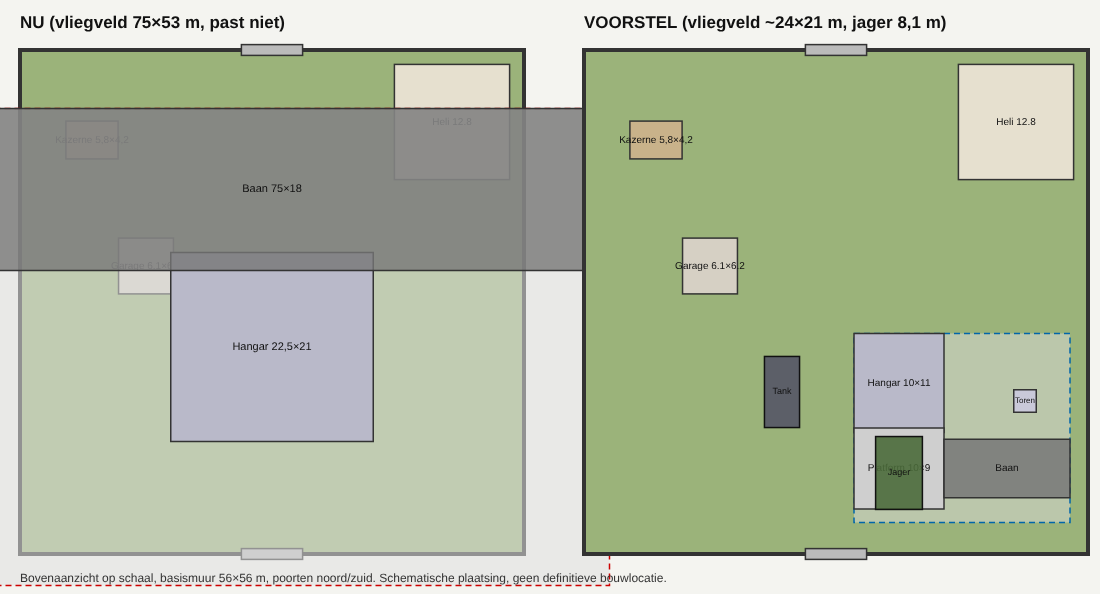
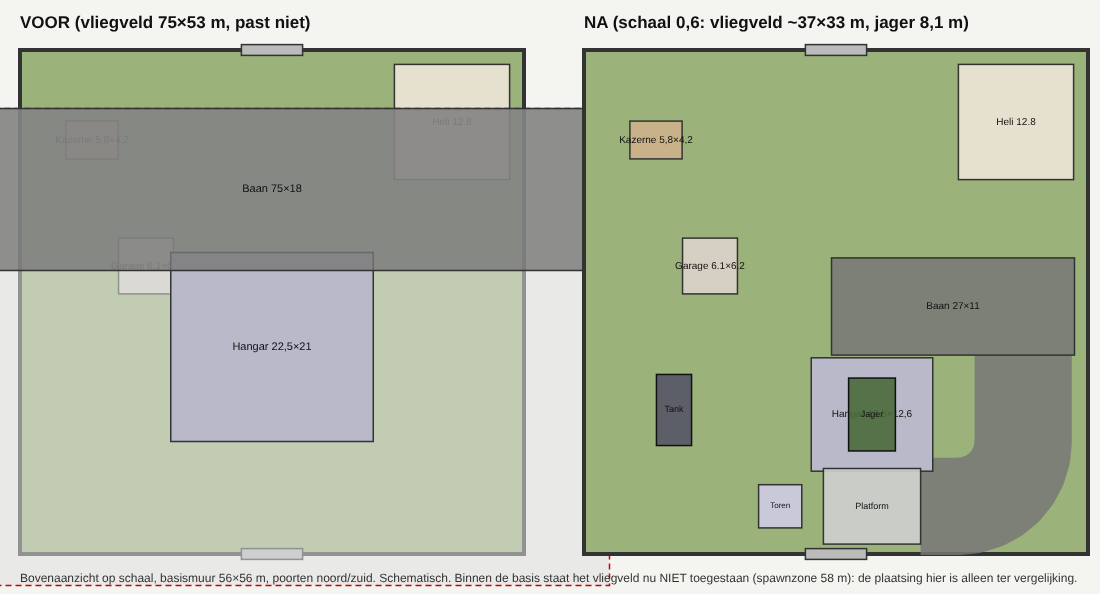
Vliegveld in Generals-verhoudingen: scène uniform op schaal 0,6, baan 3 dekplaten, jager 0,55
Dezelfde modellen, texturen en animaties, alleen kleiner. Wereldmaten, plaatsing en
vliegtuigcode rekenen met AirfieldHQ23.SCALE. Tests bijgewerkt, nieuwe schaaltest en
voor/na-opnames. Niet gemerged, geen OTA.

Claude-Session: https://claude.ai/code/session_01WCF4zvxLqN6y8NRWiuWgER

diff --git a/docs/airfield_generals_scale/REPORT.md b/docs/airfield_generals_scale/REPORT.md
@@ -1,0 +1,41 @@
+# Vliegveld in Generals-verhoudingen: rapport
+
+Branch `claude/airfield-generals-scale-spec`. Niet gemerged, geen OTA. Native iPhone-prestaties en -touchgedrag: **NIET GETEST**.
+Specificatie en onderbouwing: [ASSET_DESIGN_SPEC.md](ASSET_DESIGN_SPEC.md).
+
+## Wat is gedaan
+- De hele vliegveldscène is uniform met factor **0,6** verkleind (`AirfieldHQ23.SCALE`). Hangar, toren, platform, taxibaan en baan zijn **dezelfde modellen, texturen en animaties**; ze zijn niet opnieuw gemodelleerd. Kleiner betekent dus een hogere pixeldichtheid per meter.
+- De baan heeft drie in plaats van vijf dekplaten (45 m ontwerp, 27 m in de wereld).
+- Het toestel (straaljager) is van schaal 0,62 naar 0,55 gegaan: ~8,1 × 5,2 m, iets langer dan de tank (7,9 m) en veel groter dan de jeep.
+- Wereldmaten (plaatsing, voetafdruk, camerakadrering, bouwoppervlak) rekenen met `SCALE`. Binnen de scène blijven alle maten gelijk, zodat deuren, animaties, botsing en lichten niet verschuiven.
+- Vliegtuigcode: schaal-onafhankelijke parkeerpositie, hoogte van het asfalt (0,22 × 0,6), hangarpasvorm en een echte draai op de plaats binnen de hangar (anders zwaait de neus tegen de deurstijl).
+- Kazerne, garage, helipad, voertuigen, soldaten en hun uitgangen zijn niet aangeraakt.
+
+## Maten (gemeten in Godot)
+Hangar 13,5 × 12,6 m (opening 9 × 3,5), baan 27 × 10,8, platform 10,8 × 8,4, toren 4,8 × 4,8; het hele vliegveld past in 36,9 × 33,0 m (was 75 × 53). Voor/na met identieke camera: [voor](captures/voor/) en [na](captures/na/). Schema: [basis_oud_vs_nieuw.png](basis_oud_vs_nieuw.png).
+
+## Eisen van de gebruiker
+| Eis | Resultaat |
+|---|---|
+| Animaties blijven bestaan | Hangardeuren (alle 3 LODs, tween plus botsing), torendeur (botsing draait mee open), windzak-lus en de jager-clip `Vliegen` werken (tests hieronder). Geen enkele clip is aangepast. |
+| Zelfde ontwerp, hoge pixeldichtheid | Zelfde GLB's en texturen, uniform geschaald. Geen nieuwe bronbestanden, dus geen wijziging aan `.blend`/`.usdz`/viewer. |
+| Alles blijft werken | Zie de testtabel. |
+
+## Tests (headless Godot 4.7.2, Linux)
+| Test | Uitkomst |
+|---|---|
+| `airfield_hq_23_contract_test` | PASS (verwachtingen over baan 45 m, oppervlak 981,8 m² en schaal 0,6 bijgewerkt) |
+| `vliegtuig_test` | 0 fouten (opstijgen, vliegen, landen, taxiën, terug in de hangar, crash-tests) |
+| `airfield_hq_23_hangar_gameplay_test` | 0 fouten (muren, deuren, dak, op de geschaalde scène) |
+| `airfield_scale_test` (nieuw) | 0 fouten: wereldmaten, opening laat jager door, speler loopt door de open deur (ook 2,3 m naast het midden), trapbreedte, torendeur, windzak, 3 dekplaten |
+| `bouw_test`, `generator_test`, `heli_test`, `schade_test`, `truck_test`, `wachtpost_test`, `ai_test`, `raket_test`, `vq2_test` | geen fouten |
+| `airfield_hq_22_import_test` | **faalt, maar ook zonder mijn wijzigingen** (`The compact left-door GLB action must play in Godot`, headless) |
+
+Opnames in het echte spel (`tests/airfield_scale_capture.gd`, Mesa llvmpipe, OpenGL-compatibiliteit): modellen, texturen en hangar-interieur met het toestel zijn intact. Dit is geen prestatiemeting.
+
+## Open punten
+1. **Binnen de basismuren plaatsen kan nog niet.** Het spel weigert elke vliegveldlocatie binnen 60 m van het midden ("Vijandelijke spawnzone", `Data.SPAWN_R = 58`), dus ook binnen de basis (56 × 56 m). Het verkleinde vliegveld (37 × 33 m) past er qua afmeting wel, maar dan moet die regel veranderen en worden vijanden de gebouwen aanvallen. Beslissing van de gebruiker nodig.
+2. Het vliegveld is omvattend 37 × 33 m, groter dan de eerste inschatting van 24 × 21 m, omdat het ontwerp (taxibocht) dezelfde samenstelling houdt.
+3. De baan van 27 m is korter dan een echte baan; het vliegen is arcade en de test (opstijgen, landen) slaagt.
+4. Torentrap: de botsvormen zijn verbreed zodat de speler (0,9 m) past, maar klimmen is niet getest (was ook al niet geaccepteerd in 2.3).
+5. Native iPhone-test (framerate, aanraking, camera): NIET GETEST.

diff --git a/docs/airfield_generals_scale/ASSET_DESIGN_SPEC.md b/docs/airfield_generals_scale/ASSET_DESIGN_SPEC.md
@@ -1,6 +1,6 @@
 # Asset Design Specification: Generals-verhoudingen voor de basis
 
-Status: **ONTWERP, wacht op goedkeuring. De maten hieronder zijn voorlopig en worden herzien op basis van de echte Generals-data (zie de sectie 'Echte Generals-maten').** Er is nog niets gebouwd of gewijzigd in de game.
+Status: **UITGEVOERD op deze branch (Draft, niet gemerged, geen OTA).** Zie [REPORT.md](REPORT.md) voor resultaten en open punten.
 Aanleiding: referentieplaatje uit Command & Conquer Generals. Het huidige vliegveld (footprint 75 × 53 m, baan 75 m) is groter dan de basis (56 × 56 m) en veel groter dan kazerne en garage.
 
 Vergelijking op schaal: [basis_oud_vs_nieuw.png](basis_oud_vs_nieuw.png) (bron: `.svg`). De plaatsing daarin is schematisch.
@@ -42,20 +42,22 @@ Niet opgezocht: de helipad uit je plaatje en de Chinese en GLA-gebouwen.
 - **Strikt op kazerne-schaal** (kazerne 5,8 m = 110 eenheden, 1 eenheid ≈ 0,053 m): vliegveld ≈ **11,8 × 7,8 m**, ongeveer 82 m² (nu ~3975 m²).
 - **Eenheden:** in Generals zijn voertuigen en jagers ~¼ van een kazerne, en een soldaat ~1/8. Bij jou is een soldaat ~1/3 van de kazerne en een straaljager (schaal 0,62) ~1,7× de kazerne. Strikt volgen kan dus niet: een jager van 1,5 m is onspeelbaar. De gebouwen onderling volgen Generals, de eenheden blijven speelbaar.
 
-## Maten (meter, doel), versie 2 na Generals-data en keuze optie 2
-Gemeten in de GLB-bestanden (ruwe modelafmetingen). De schaal van de voertuigscènes in Godot is nog niet gecontroleerd.
+## Maten (meter), uitgevoerd: uniforme schaal 0,6 van de bestaande vliegveldscène
+De hele scène (hangar, toren, platform, taxibaan, baan) is uniform met `AirfieldHQ23.SCALE = 0,6` verkleind, dus dezelfde modellen, texturen,
+animaties en botsing. Alleen de baan is korter (3 in plaats van 5 dekplaten). De eerdere voorlopige maten (24 × 21 m) bleken niet haalbaar:
+een jager die niet kleiner is dan de tank (8,1 m) past pas in een hangar met schaal ≥ ~0,6. Gemeten in Godot (`tests/airfield_scale_test.gd`):
 
-| Onderdeel | Nu | Doel | Opmerking |
-|---|---|---|---|
-| Kazerne | 5,8 × 4,5 | ongewijzigd | referentie; soldaten komen uit de deur (`DOOR` = 2,5 m) |
-| Garage | ~6,1 × 6,2 (model 9,3 × 9,5 × `GS` 0,66) | ongewijzigd | War Factory is 1,28× kazerne, dus klopt al |
-| Helipad | 12,8 plaat, schacht 9 × 9 | **ongewijzigd (goedgekeurd)** | de schacht met lift is al 9 m; Apache-schaal 0,45 (~7,8 m) past er net op |
-| Vliegveld totaal | 75 × 53 | **~24 × 21 (optie 2, herzien)** | bebouwd ~360 m², ~11% van de basis van 56 × 56 m |
-| Hangar | 22,5 × 21 | ~10 × 11, opening ~8 m | jager 8,1 × 5,2 m + ~1,3 m speling per kant |
-| Platform | 18 × 14 | ~10 × 9 | |
-| Baan | 75 × 18 | ~24 × 6,5 | arcade-vliegen; breedte = spanwijdte + speling |
-| Toren | 8 × 8 | ~2,5 × 2,5 | trapcollision opnieuw |
-| Jager | schaal 0,62 (~5,8 × 9,2 m) | **schaal ~0,55 (~5,2 × 8,1 m)** | nooit kleiner dan de tank (3,9 × 7,9 m) of jeep (1,7 × 3,8 m); Raptor ≈ Crusader in Generals |
+| Onderdeel | Voor | Na (wereld) |
+|---|---|---|
+| Hangarschil | 22,5 × 21 | 13,5 × 12,6 m |
+| Hangaropening | 15 × 5,9 | 9 × 3,5 m |
+| Baan | 75 × 18 | 27 × 10,8 m (3 dekplaten) |
+| Platform | 18 × 14 | 10,8 × 8,4 m |
+| Taxibaan | 18 breed | 10,8 breed |
+| Toren | 8 × 8 | 4,8 × 4,8 m |
+| Hele vliegveld (omvattend) | 75 × 53 (~3975 m²) | 36,9 × 33,0 m (voorzichtig oppervlak 982 m², was 3267 m²) |
+| Jager | schaal 0,62 | schaal 0,55: ~8,1 × 5,2 m (iets langer dan de tank, 7,9 m) |
+| Kazerne, garage, helipad, voertuigen | - | ongewijzigd |
 
 ## Voertuigen en soldaten
 - **Soldaten:** komen uit de kazerne naar een punt 2,5 m voor de deur. Kazerne blijft gelijk, dus geen wijziging. Rond de deur komt een vrije zone van minstens 3 m, die de plaatsing bewaakt.
